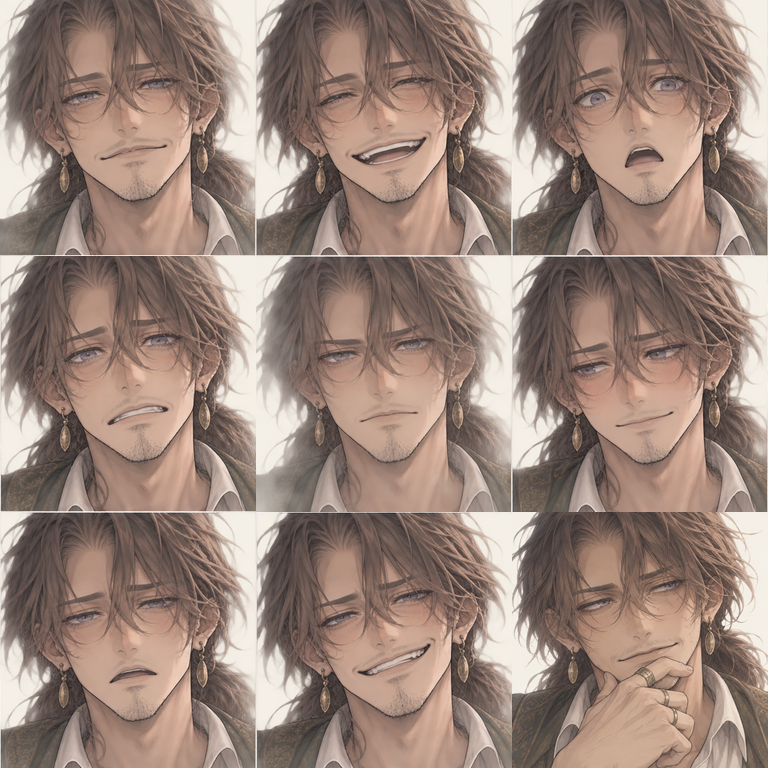
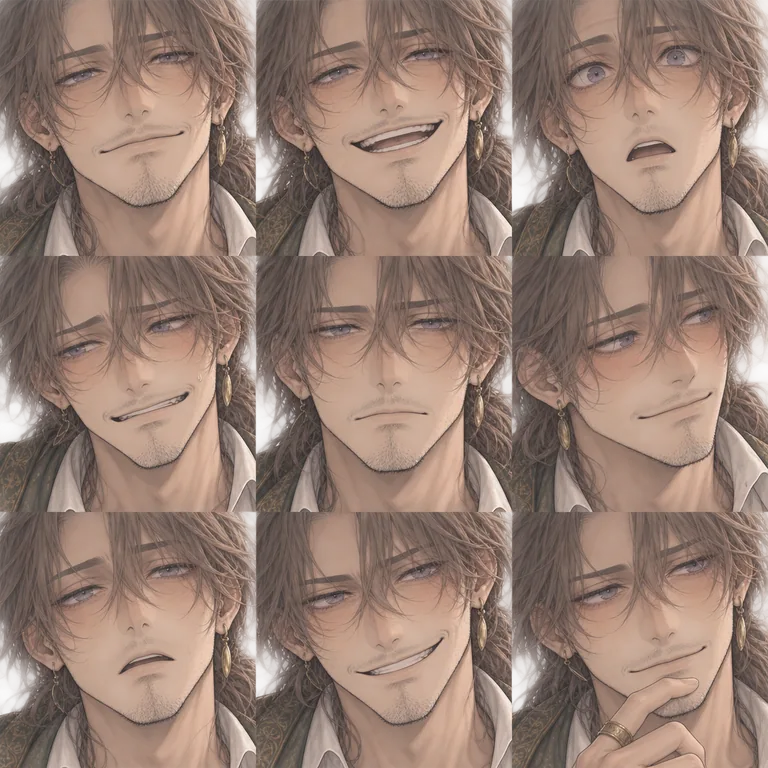
チャットをコンパクトにし、透過背景でフィールドを広げる (#124)
* Compact adventure chat and overlay translucent field history

* Keep chat clear of desktop headings and finisher banners

* Refine bottom chat opacity and add readable compact portraits

* Match portrait references with shared close-ups and a proud Aria expression

* Refine Mira and Finn portraits, lighten assets and set Mira's age

diff --git a/app/adventure-chat.css b/app/adventure-chat.css
@@ -1,0 +1,55 @@
+/* Map and chat share one row so the scenery continues behind the conversation. */
+.phone-game .phone-adventure {
+  display: grid;
+  grid-template-columns: minmax(0, 1fr);
+  grid-template-rows: minmax(0, 1fr) 48px;
+  gap: 0;
+}
+.phone-game .phone-adventure .map-shell {
+  grid-area: 1 / 1;
+  height: 100%;
+}
+.phone-game .phone-adventure > .journey-banter,
+.phone-game .phone-adventure > .phone-banter {
+  grid-area: 1 / 1;
+  align-self: end;
+  position: relative;
+  z-index: 6;
+  margin: 0;
+}
+.phone-game .phone-adventure-running {
+  --chat-rows: 5;
+}
+.phone-game .phone-adventure > .journey-banter,
+.phone-game .phone-adventure > .journey-banter:hover:not(:disabled),
+.phone-game .phone-adventure > .journey-banter:focus,
+.phone-game .phone-adventure > .journey-banter:active,
+.phone-game .phone-adventure > .phone-banter {
+  background: rgb(30 33 37 / 38%);
+  color: #fff;
+  border-top: 1px solid rgb(255 255 255 / 18%);
+  text-shadow: 0 1px 2px #000;
+  box-shadow: none;
+}
+.phone-game .journey-banter-history .banter-message b {
+  color: #f5deb0;
+}
+.phone-game .phone-adventure > .adventure-actions {
+  grid-area: 2 / 1;
+}
+/* Keep journey progress just above the bottom conversation. */
+.phone-game .phone-adventure .map-journey {
+  bottom: calc(var(--chat-rows, 3) * (2.5rem + 2px) + 13px);
+}
+/* Short screens prioritize the battle and retain scrolling for older lines. */
+@media (max-height: 740px) {
+  .phone-game .phone-adventure-running {
+    --chat-rows: 3;
+  }
+}
+@media (max-height: 650px) {
+  .phone-game .phone-adventure {
+    grid-template-rows: minmax(370px, 1fr) 48px;
+    overflow-y: auto;
+  }
+}

diff --git a/app/stories.css b/app/stories.css
@@ -713,15 +713,16 @@
   padding-right: 4px;
 }
 .phone-game .journey-banter.journey-banter-history {
-  --chat-line-height: 1.5rem;
-  --chat-face-size: 4rem;
-  --chat-height: calc(2 * var(--chat-face-size) + 11px);
+  --chat-line-height: 1.25rem;
+  --chat-face-size: calc(2 * var(--chat-line-height));
+  --chat-height: calc(var(--chat-rows, 3) * (var(--chat-face-size) + 2px) + 7px);
   height: var(--chat-height);
   min-height: 0;
   max-height: var(--chat-height);
   flex: 0 0 var(--chat-height);
   overflow-y: auto;
   overflow-anchor: none;
+  overscroll-behavior: contain;
   align-items: flex-start;
   padding: 4px 6px;
   gap: 0;
@@ -736,7 +737,7 @@
   align-items: center;
   min-height: var(--chat-face-size);
   gap: 6px;
-  font-size: 1rem;
+  font-size: 0.875rem;
   line-height: var(--chat-line-height);
 }
 .phone-game .journey-banter-history .banter-line > .face-portrait {
@@ -747,6 +748,7 @@
 }
 .phone-game .journey-banter-history .banter-message {
   display: block;
+  font-weight: 400;
   flex: 1;
   min-width: 0;
   overflow: visible;
@@ -755,15 +757,10 @@
   overflow-wrap: anywhere;
 }
 .phone-game .journey-banter-history .banter-message b {
-  display: block;
-  font-size: 0.875rem;
-  line-height: 1.25rem;
+  display: inline;
+  font-size: inherit;
+  line-height: inherit;
   font-weight: 600;
-}
-@media (min-width: 900px) {
-  .phone-game .journey-banter.journey-banter-history {
-    --chat-face-size: 4.5rem;
-  }
 }
 .journey-banter-history .banter-line:last-child,
 .dialogue-history .story-lines > :last-child {

diff --git a/app/story-scenes.tsx b/app/story-scenes.tsx
@@ -332,6 +332,19 @@ function useBanterButtonHandlers(
   };
 }
 
+function banterLine(entry: StoryLine, key: number) {
+  const speaker = characters.find((h) => h.id === entry.speaker);
+  return (
+    <span className="banter-line" key={key}>
+      {speaker && <Portrait index={speaker.sprite} size={40} expression={entry.expression} />}
+      <span className="banter-message">
+        {speaker && <b>{speaker.name}：</b>}
+        {entry.text}
+      </span>
+    </span>
+  );
+}
+
 export function Banter({
   lines,
   onRead,
@@ -374,20 +387,9 @@ export function Banter({
       aria-label="道中の掛け合いを読む"
     >
       <span className="banter-copy">
-        {exchange.history.map((entry, i) => {
-          const speaker = characters.find((h) => h.id === entry.speaker);
-          return (
-            <span className="banter-line" key={exchange.turn - exchange.history.length + 1 + i}>
-              {speaker && (
-                <Portrait index={speaker.sprite} size={64} expression={entry.expression} />
-              )}
-              <span className="banter-message">
-                {speaker && <b>{speaker.name}</b>}
-                {entry.text}
-              </span>
-            </span>
-          );
-        })}
+        {exchange.history.map((entry, i) =>
+          banterLine(entry, exchange.turn - exchange.history.length + 1 + i),
+        )}
       </span>
     </button>
   );

diff --git a/lib/portrait-expressions.ts b/lib/portrait-expressions.ts
@@ -35,6 +35,7 @@ export function expressionPortrait(
 ) {
   const character = typeof index === "number" ? portraitCharacters[index] : index;
   if (!character) return null;
+  if (character === "aria" || character === "leon") return closeupPortrait(character, expression);
   const atlas = portraitAtlases[character];
   // An expression absent from this character's atlas falls back to neutral.
   const cell = Math.max(0, atlas.expressions.indexOf(expression));
@@ -43,5 +44,16 @@ export function expressionPortrait(
     src: `/portraits/${character}-expressions.webp`,
     size: `${String(atlas.columns * 100)}% ${String(atlas.rows * 100)}%`,
     position: `${String(((cell % atlas.columns) / (atlas.columns - 1)) * 100)}% ${String((Math.floor(cell / atlas.columns) / (atlas.rows - 1)) * 100)}%`,
+  };
+}
+
+// Shared close-ups for chat, story dialogue and character portraits.
+function closeupPortrait(character: "aria" | "leon", expression: PortraitExpression) {
+  const cell =
+    Math.max(0, standardAtlas.expressions.indexOf(expression)) + (character === "leon" ? 8 : 0);
+  return {
+    src: "/portraits/aria-leon-expressions-v2.webp",
+    size: "400% 400%",
+    position: `${String(((cell % 4) / 3) * 100)}% ${String((Math.floor(cell / 4) / 3) * 100)}%`,
   };
 }

diff --git a/app/phone-game-frame.tsx b/app/phone-game-frame.tsx
@@ -189,7 +189,10 @@ function AdventureBanter({ model: m }: { model: PhoneFrameModel }) {
 }
 function AdventureTab({ model: m }: { model: PhoneFrameModel }) {
   return (
-    <TabsContent value="adventure" className="phone-adventure">
+    <TabsContent
+      value="adventure"
+      className={"phone-adventure" + (m.run ? " phone-adventure-running" : "")}
+    >
       <MapStage
         state={m.state}
         squad={m.squad}

diff --git a/app/portrait.tsx b/app/portrait.tsx
@@ -77,6 +77,10 @@ export function Portrait({
   if (portrait) return expressionFace(portrait, size);
   const cell = dialogueCells[index];
   if (cell !== undefined) return dialogueFace(cell, size);
+  return legacyFace(index, size);
+}
+
+function legacyFace(index: number, size: number) {
   const face = faces[index],
     original = originalArt(index);
   const [cx, cy] = centers[index] || [0.5, 0.3],

diff --git a/app/layout.tsx b/app/layout.tsx
@@ -10,6 +10,7 @@ import "./phaser.css";
 import "./prologue.css";
 import "./equipment.css";
 import "./adventure-actions.css";
+import "./adventure-chat.css";
 
 export const viewport: Viewport = { width: "device-width", initialScale: 1, themeColor: "#102a26" };
 

diff --git a/docs/dialogue-expressions.md b/docs/dialogue-expressions.md
@@ -6,12 +6,12 @@
 
 | 人物 | 参照 | ゲーム用画像 |
 | --- | --- | --- |
-| アリア | [シート](characters/aria-reference-sheet.webp) | [表情一覧](../public/portraits/aria-expressions.webp) |
-| レオン | [シート](characters/leon-reference-sheet.webp) | [表情一覧](../public/portraits/leon-expressions.webp) |
+| アリア | [シート](characters/aria-reference-sheet.webp) | [共用の表情・上2行](../public/portraits/aria-leon-expressions-v2.webp) |
+| レオン | [シート](characters/leon-reference-sheet.webp) | [共用の表情・下2行](../public/portraits/aria-leon-expressions-v2.webp) |
 | ミラ | [シート](characters/mira-reference-sheet.webp) | [表情一覧](../public/portraits/mira-expressions.webp) |
 | プティ | [シート](characters/pumpety-reference-sheet.webp) | [表情一覧](../public/portraits/pumpety-expressions.webp) |
 
-各画像は1024×512px、4列×2行、1コマ256px角のWebP。上段は通常 `neutral`、笑顔 `smile`、驚き `surprised`、困り `worried`。下段は真剣 `serious`、照れ `shy`、疲れ `tired`、ニヤリ `mischievous`。書き出しはミラが可逆圧縮、他の3人が品質90。ミラは通常顔にも重い上まぶたと灰紫の目の下の影を持ち、疲れ顔でそれを強める。笑顔・驚き・真剣さは別々に描き分ける。顔がコマの大部分を占めるアップ構図。頭頂部・髪・飾りの端はコマから切れてよく、目・鼻・頬・口を大きく描く。表示時はコマ全体を使い、追加のズームや切り取りは行わない。背景は不透明なアイボリー。人物ごとの髪・耳・髪飾りと、表情差分の顔の位置を確認し、64px角の比較でも目と口の違いを確認した。
+初版の各画像は1024×512px、4列×2行、1コマ256px角のWebP。ミラ・プティは引き続きこの形式を使い、アリア・レオンは下記の共用アップ画像へ更新した。上段は通常 `neutral`、笑顔 `smile`、驚き `surprised`、困り `worried`。下段は真剣 `serious`、照れ `shy`、疲れ `tired`、ニヤリ `mischievous`。初版の書き出しはミラが可逆圧縮、他の3人が品質90。現在の配信用画像は下記の軽量化方針を使う。ミラは通常顔にも重い上まぶたと灰紫の目の下の影を持ち、疲れ顔でそれを強める。笑顔・驚き・真剣さは別々に描き分ける。顔がコマの大部分を占めるアップ構図。頭頂部・髪・飾りの端はコマから切れてよく、目・鼻・頬・口を大きく描く。表示時はコマ全体を使い、追加のズームや切り取りは行わない。背景は不透明なアイボリー。人物ごとの髪・耳・髪飾りと、表情差分の顔の位置を確認し、64px角の比較でも目と口の違いを確認した。
 
 `StoryLine.expression` へ台詞ごとに指定する。句読点や単語から実行時に感情を推測しない。同じ文章でも場面によって違う表情を指定できる。省略時は通常顔で、地の文には顔を出さない。会話画面、思い出の読み返し、道中のチャット履歴は各発言の表情を保持する。キャラクター画面では通常顔を使い、対象外の人物には従来の顔画像を使う。
 
@@ -19,12 +19,28 @@
 
 これは既存の会話への表示実装であり、新しい第二章のシナリオ実装ではない。プティの素顔画像は従来記録向け。第二章のパンプキンヘッド姿へこの素顔を流用しない。かぶり物の状態は第二章実装側で別に扱い、[人物設定](characters/pumpety.md) を守る。
 
+## チャットとシナリオで共用するアップの表情
+
+アリアとレオンは [共用の16コマ](../public/portraits/aria-leon-expressions-v2.webp) を、チャット・シナリオ会話・思い出・キャラクター画面で使う。チャット専用画像への分岐は廃止した。他の人物の画像は維持する。
+
+画像は1024×1024px・4列×4行のWebP（品質82）。上2行がアリア、下2行がレオンで、各8表情の順序は従来と同じ。二人のリファレンスシートを直接参照し、頭身を低くしたデフォルメではなく、元の顔立ち・髪型・色・衣装に寄せる。顔を大きくし、頭頂部・髪・耳・飾りの端が枠外に切れることを許容する。目・鼻・頬・口が読み取れる構図を優先する。
+
+アリアの `mischievous` は、従来のニヤリ顔から、少し顎を上げたかわいく得意げなどや顔に変更した。悪巧みや嘲笑に見える片側の笑み・鋭い眉は避ける。台詞の表情キーと割り当ては変更せず、人物に合った表現として描き分ける。レオンは控えめで親しみのある笑みを使う。
+
+内蔵画像生成ツールで2026-09-21に制作。生成PNGの構図を保ち、1コマ256pxへ縮小してWebP品質82で配信用に圧縮した。制作条件は [生成記録](art-generation/shared-portraits-generation.json) を参照。40pxのチャットと大きな会話用表示で同じ表情を確認する。
+
 ## 登場に備えた素材
 
-フィンの [9表情](../public/portraits/finn-expressions.webp) は [採用シート](characters/finn-reference-sheet.webp) をもとに制作した。768×768px・3列×3行の可逆WebPで、通常・笑顔・驚き／困り・真剣・照れ／疲れ・ニヤリ・思案を収録する。表情の意図は [人物資料](characters/finn.md#顔アイコン)、制作条件は [生成記録](art-generation/finn-expressions-generation.json) を参照。キャラクター登録と台詞への割り当ては未実装のため、上記の表示対象にはまだ含めない。
+フィンの [9表情](../public/portraits/finn-expressions.webp) は [採用シート](characters/finn-reference-sheet.webp) をもとに制作した。768×768px・3列×3行のWebP（品質82）で、通常・笑顔・驚き／困り・真剣・照れ／疲れ・ニヤリ・思案を収録する。表情の意図は [人物資料](characters/finn.md#顔アイコン)、制作条件は [生成記録](art-generation/finn-expressions-generation.json) を参照。キャラクター登録と台詞への割り当ては未実装のため、上記の表示対象にはまだ含めない。
 
-`expressionPortrait("finn", "thoughtful")` で右下の思案顔を取得できる。`lib/portrait-expressions.ts` のキャラ別定義が列数・行数・表情順を持つ。既存キャラは4列×2行のままで、未収録の表情を指定した場合は通常顔へ戻る。既存の数値IDによる呼び出しも維持する。フィンのゲーム内登録番号はまだ割り当てない。
+`expressionPortrait("finn", "thoughtful")` で右下の思案顔を取得できる。`lib/portrait-expressions.ts` のキャラ別定義が列数・行数・表情順を持つ。ミラ・プティは4列×2行、アリア・レオンは共用の4列×4行を使い、未収録の表情を指定した場合は通常顔へ戻る。既存の数値IDによる呼び出しも維持する。フィンのゲーム内登録番号はまだ割り当てない。
 
 ## 生成記録
 
 採用したアップ構図の参照画像・生成出力・最終プロンプトは [生成記録](art-generation/dialogue-expressions-generation.json) に保存する。内蔵画像生成ツールで、4人の外見・8表情・コマ順を維持して描き直した。参照シートの文字情報を人物設定として採用していない。
+
+## ミラ・フィンのアップ画像と配信容量
+
+ミラもチャット・シナリオ会話・キャラクター画面で共用する顔のアップへ更新した。通常や笑顔にも目の下の青紫・灰紫の血色の悪さを残し、疲れ顔では強める。年齢は [人物設定](characters/mira.md) の20代半ばを正とする。フィンは採用シートの顔立ち・日焼け・無精髭・垂れ目を残し、思案を含む9表情をアップにした。キャラクター登録・登場条件は追加していない。制作条件は [生成記録](art-generation/mira-finn-closeups-generation.json) を参照。
+
+アリア・レオン、ミラ、フィンの配信画像は1コマ256px、Lanczos3縮小、WebP品質82・effort 6を使用する。40pxチャットと72px会話を高密度画面で表示する余裕を残す。容量はアリア・レオン393,320バイト（従来2,260,668バイトから約83%削減）、ミラ103,076バイト、フィン217,748バイト。原画をそのまま配信せず、再生成時も表示サイズで表情を確認する。

diff --git a/docs/characters/finn.md b/docs/characters/finn.md
@@ -191,7 +191,7 @@
 
 リファレンスシートに合わせた、文字なしの9表情。上段は通常・笑顔・驚き、中段は困り・真剣・照れ、下段は疲れ・ニヤリ・思案。通常は気の抜けた軽い笑み、困りは話を盛ったことを指摘されてごまかす顔、照れは不意に褒められたときの気まずさ、ニヤリは調子よく話を持ちかける顔として描き分ける。髪色・灰紫の瞳・日焼け・無精髭・顔立ちを各コマで揃える。
 
-768×768px、3列×3行、1コマ256px角の可逆WebP。制作条件は [生成記録](../art-generation/finn-expressions-generation.json) を参照。キャラクター登録や台詞への割り当ては別途行い、素材の追加だけではゲーム中の表示は変わらない。
+768×768px、3列×3行、1コマ256px角のWebP（配信用の品質82）。顔を大きく見せ、髪や耳の端の切れを許容するアップ構図へ更新した。現在の制作条件は [アップ画像の生成記録](../art-generation/mira-finn-closeups-generation.json)、初版は [生成記録](../art-generation/finn-expressions-generation.json) を参照。キャラクター登録や台詞への割り当ては別途行い、素材の追加だけではゲーム中の表示は変わらない。
 
 
 

diff --git a/AGENTS.md b/AGENTS.md
@@ -7,3 +7,4 @@
 - 本番への配備は、実行時の明示指定と、プレビュー確認・配備準備後の別の最終承認がある場合だけ行う。開始時の指定やPRマージ承認を配備承認へ流用しない。
 - Codex の作業ブランチは `codex/<短い名前>` を推奨する。一時 worktree が detached HEAD なら、同期済み `main` と同じコミットからその worktree にブランチを作る。他のエージェントはそれぞれの名前を使う。
 - このプロジェクトのスキルは `.agents/skills/` に置いてGitで管理し、個人用フォルダーへ複製しない。
+- ローカル確認の起動は、PC限定の指定がなければスマホからも開けるLAN待ち受けにする。`npm run dev` の `0.0.0.0` を維持し、起動後に実際のポートとWi-Fi/LANのIPv4アドレスを確認して接続URLを案内する。WSLなど仮想アダプターのIPは案内しない。PCからの応答確認とスマホ実機での確認は区別する。

diff --git a/docs/characters/README.md b/docs/characters/README.md
@@ -58,7 +58,7 @@
 
 ## 共通の未設定事項
 
-具体的な年齢、村と街の固有名、家族の職業、過去の事件、加入後の詳しい生活史。アリアはエルフ、レオンは人間という種族案と成長の速さは [世界観と物語](../world-and-story.md) の制作案に従う。幼い頃に塔へ行く約束は設定していない。空欄を埋めるためだけに悲劇や秘密を追加しない。
+個別の人物資料で確定していない年齢、村と街の固有名、家族の職業、過去の事件、加入後の詳しい生活史。ミラ・フィンの年齢はそれぞれの人物資料を正とする。アリアはエルフ、レオンは人間という種族案と成長の速さは [世界観と物語](../world-and-story.md) の制作案に従う。幼い頃に塔へ行く約束は設定していない。空欄を埋めるためだけに悲劇や秘密を追加しない。
 
 ## 塔の物語で人物を動かす軸
 
